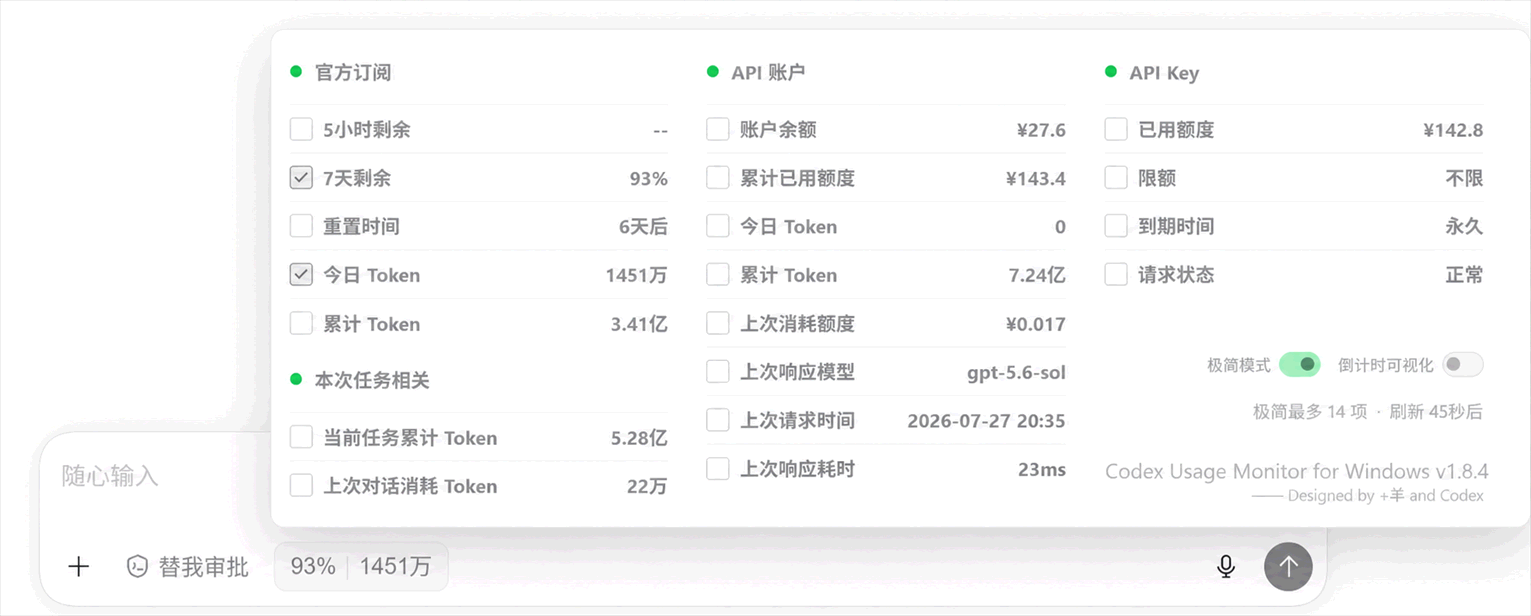
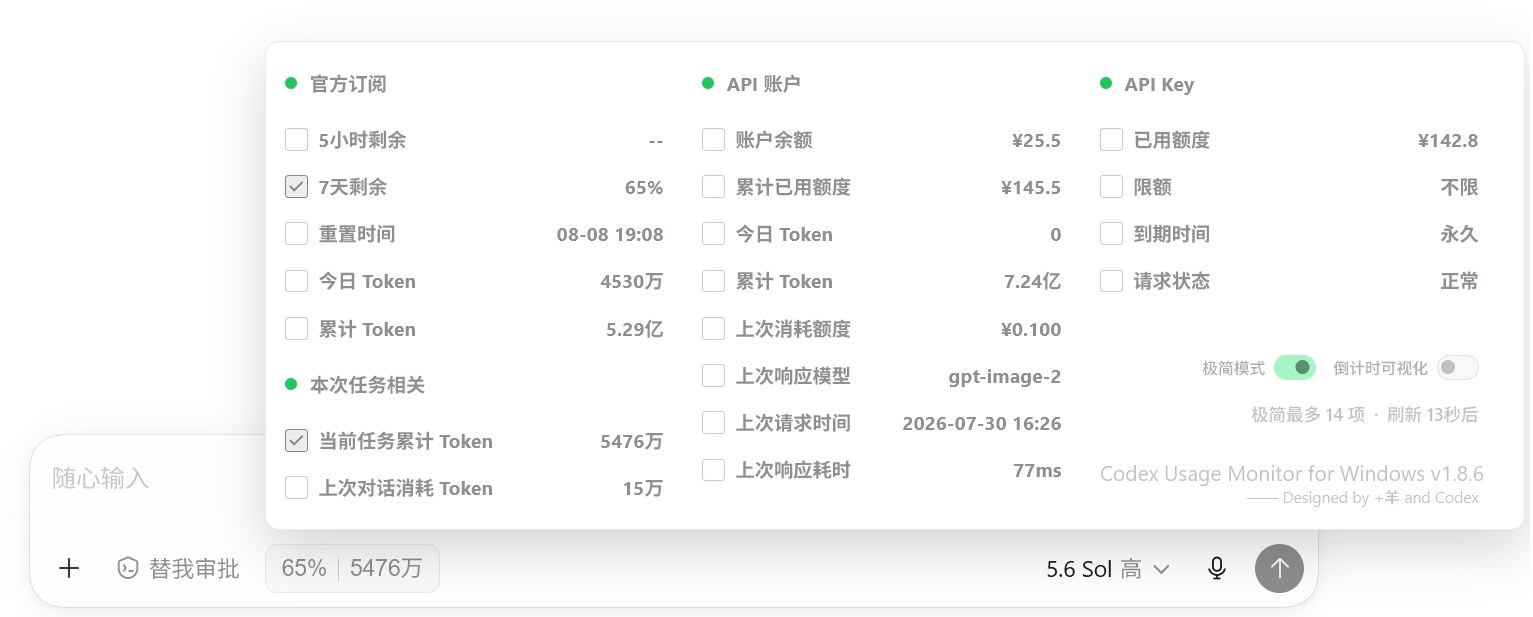
Fix monitor layout after Codex update

diff --git a/assets/usage-inject.js b/assets/usage-inject.js
@@ -290,12 +290,7 @@
     };
     let composer = editables.map(nearestComposer).find(Boolean) || composers.at(-1) || null;
     if (!composer) return null;
-    const composerBox = box(composer);
-    const wrapper = composer.parentElement;
-    const wrapperBox = box(wrapper);
-    const wrapperWorks = wrapper && wrapperBox && getComputedStyle(wrapper).position !== "static" &&
-      Math.abs(wrapperBox.width - composerBox.width) < 8 && Math.abs(wrapperBox.height - composerBox.height) < 8;
-    return { composer, parent: wrapperWorks ? wrapper : composer };
+    return { composer };
   };
 
   const markup = `
@@ -308,10 +303,10 @@
     </div>`;
   const css = `
     :host {
-      position: absolute;
+      position: fixed;
       left: var(--usage-left, 0px);
-      bottom: 8px;
-      z-index: 30;
+      top: var(--usage-top, 0px);
+      z-index: 2147483000;
       display: inline-flex;
       max-width: var(--usage-max-width, 280px);
       color: var(--usage-color, currentColor);
@@ -813,7 +808,6 @@
 
   const configurePosition = (host, composer) => {
     const composerBox = box(composer);
-    const parentBox = box(host.parentElement) || composerBox;
     const controls = [...composer.querySelectorAll('button, [role="button"]')]
       .filter((node) => isVisible(node) && !node.closest(`#${HOST_ID}`));
     const approval = controls.find(isApprovalControl) || null;
@@ -841,7 +835,10 @@
       const surface = getComputedStyle(composer).backgroundColor;
       host.style.setProperty("--usage-surface", surface && surface !== "rgba(0, 0, 0, 0)" ? surface : "rgba(255, 255, 255, .96)");
     }
-    host.style.setProperty("--usage-left", `${Math.round(placementX - parentBox.x)}px`);
+    const hostHeight = box(host)?.height || 28;
+    const placementY = Math.max(8, Math.min(window.innerHeight - hostHeight - 8, rowCenter - hostHeight / 2));
+    host.style.setProperty("--usage-left", `${Math.round(placementX)}px`);
+    host.style.setProperty("--usage-top", `${Math.round(placementY)}px`);
     host.style.setProperty("--usage-max-width", `${available}px`);
     const popoverWidth = Math.max(280, Math.min(720, window.innerWidth - 24));
     const popoverShift = Math.min(0, window.innerWidth - 12 - placementX - popoverWidth);
@@ -912,8 +909,9 @@
         render(host, usage);
       });
     }
-    const moved = host.parentElement !== placement.parent;
-    if (moved) placement.parent.appendChild(host);
+    const portal = document.body || placement.composer.parentElement;
+    const moved = host.parentElement !== portal;
+    if (moved) portal.appendChild(host);
     configurePosition(host, placement.composer);
     if (state) state.host = host;
     if (created || moved || host.dataset.rendered !== "true") render(host, state?.usage || window[USAGE_KEY]);
